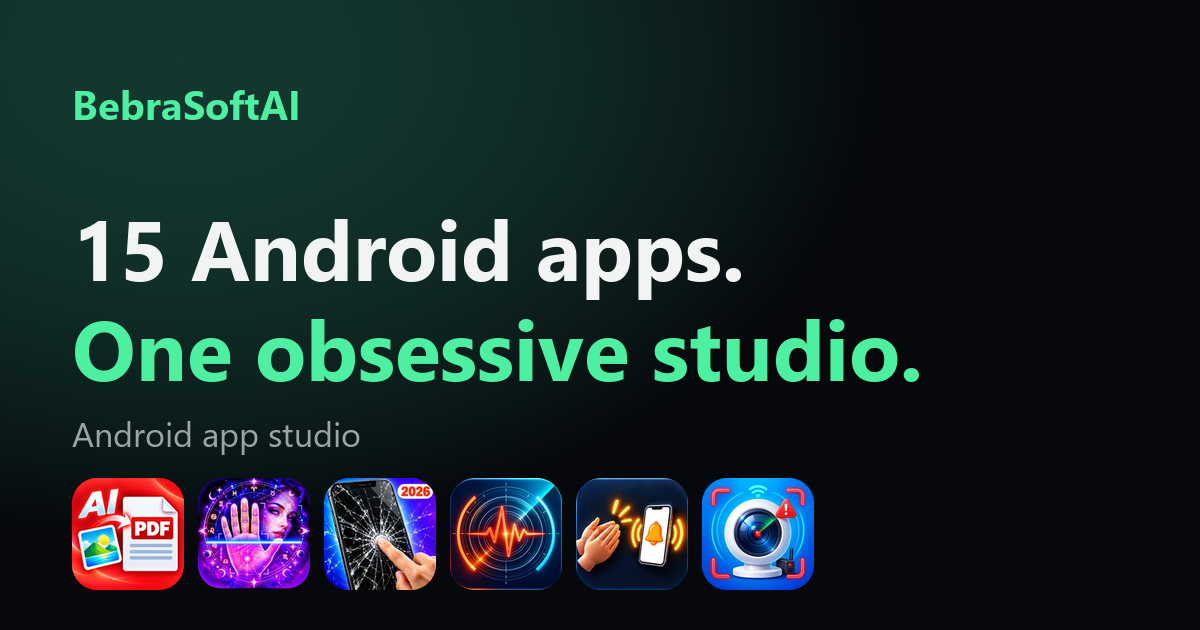
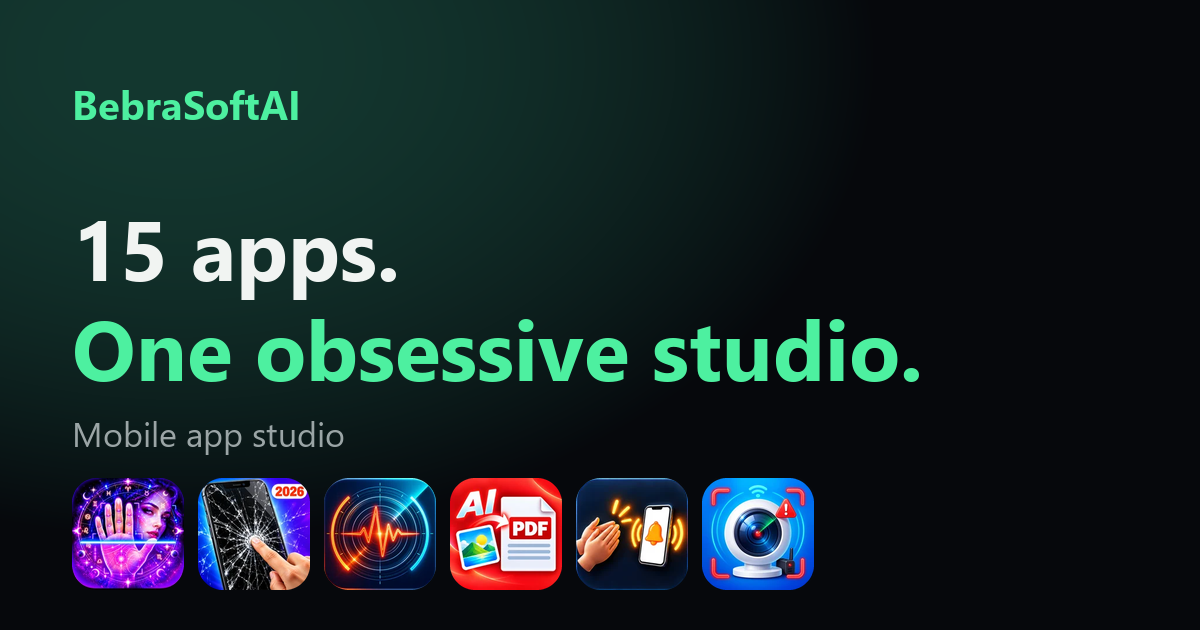
Remove Android from site branding ahead of other stores

Changed region(s): [[0.0617, 0.754, 0.4933, 0.9349], [0.1542, 0.3317, 0.6167, 0.4825], [0.0617, 0.6635, 0.3083, 0.7238]]

diff --git a/index.html b/index.html
@@ -3,13 +3,13 @@
 <head>
 <meta charset="utf-8">
 <meta name="viewport" content="width=device-width, initial-scale=1">
-<title>BebraSoftAI · Android app studio</title>
-<meta name="description" content="BebraSoftAI is an Android app studio behind 15 apps across tools, documents, maps, stories and entertainment. Every app comes with a public privacy policy.">
+<title>BebraSoftAI · Mobile app studio</title>
+<meta name="description" content="BebraSoftAI is a mobile app studio behind 15 apps across tools, documents, maps, stories and entertainment. Every app comes with a public privacy policy.">
 <link rel="canonical" href="https://kravkop.github.io/">
 <meta property="og:type" content="website">
 <meta property="og:site_name" content="BebraSoftAI">
-<meta property="og:title" content="BebraSoftAI · Android app studio">
-<meta property="og:description" content="BebraSoftAI is an Android app studio behind 15 apps across tools, documents, maps, stories and entertainment. Every app comes with a public privacy policy.">
+<meta property="og:title" content="BebraSoftAI · Mobile app studio">
+<meta property="og:description" content="BebraSoftAI is a mobile app studio behind 15 apps across tools, documents, maps, stories and entertainment. Every app comes with a public privacy policy.">
 <meta property="og:url" content="https://kravkop.github.io/">
 <meta property="og:image" content="https://kravkop.github.io/assets/og.png">
 <meta name="twitter:card" content="summary_large_image">
@@ -26,8 +26,8 @@
 <div id="content">
 <section class="hero"><div class="hero-in">
 <div>
-<p class="eyebrow">Android app studio</p>
-<h1><span data-count="apps">15</span> Android apps.<br><span class="grad">One obsessive studio.</span></h1>
+<p class="eyebrow">Mobile app studio</p>
+<h1><span data-count="apps">15</span> apps.<br><span class="grad">One obsessive studio.</span></h1>
 <p class="lede">From document tools and live maps to romantic stories and pure fun, we design, build and ship focused apps that do one job exceptionally well.</p>
 <div class="cta"><a class="btn btn-primary" href="#apps">Explore the apps <svg viewBox="0 0 24 24" fill="none" stroke="currentColor" stroke-width="2.200" stroke-linecap="round" stroke-linejoin="round" aria-hidden="true"><path d="M5 12h14M13 6l6 6-6 6"/></svg></a><a class="btn" href="#contact">Get in touch</a></div>
 </div>
@@ -57,7 +57,7 @@
 <section class="section" id="approach" style="padding-top:0"><div class="wrap">
 <div class="section-head reveal"><div><p class="kicker">How we build</p><h2 class="section-title">Serious about the details.</h2></div></div>
 <div class="bento">
-<article class="tile w3 reveal"><div class="tile-art"><div class="big-num grad">Android</div></div><h3>Android is our whole focus</h3><p>Every app in our portfolio is made for Android. That single focus shapes how each one looks, performs and handles permissions.</p></article>
+<article class="tile w3 reveal"><div class="tile-art"><div class="big-num grad">Mobile</div></div><h3>Mobile is our whole focus</h3><p>Every app in our portfolio is made for your phone. That single focus shapes how each one looks, performs and handles permissions.</p></article>
 <article class="tile w3 reveal"><div class="tile-art"><div class="chips"><span class="chip on">scan</span><span class="chip on">crop</span><span class="chip on">filter</span><span class="chip on">read PDF</span><span class="chip on">clean storage</span><span class="chip">processed locally</span></div></div><h3>On-device where it counts</h3><p>Our document scanner, PDF reader and storage cleaner handle your files on your phone. Each policy states exactly what stays local.</p></article>
 <article class="tile reveal"><div class="tile-art"><div class="lines"><i></i><i></i><i></i><i></i></div></div><h3>Policies you can read</h3><p>Each app has its own public policy, including the third-party services it uses and the choices you have.</p></article>
 <article class="tile reveal"><div class="tile-art"><svg viewBox="0 0 240 118" fill="none" aria-hidden="true"><rect x="1" y="30" width="238" height="58" rx="29" stroke="currentColor" stroke-opacity=".3" stroke-width="2"/><circle cx="208" cy="59" r="22" fill="currentColor"/><path d="m198 59 7 7 13-14" stroke="var(--bg)" stroke-width="4" stroke-linecap="round" stroke-linejoin="round"/></svg></div><h3>Choices stay yours</h3><p>Our policies explain what each app's permissions are used for and how you can change your choices.</p></article>

diff --git a/palm-reader/privacy/ru.html b/palm-reader/privacy/ru.html
@@ -4,7 +4,7 @@
 <meta charset="utf-8">
 <meta name="viewport" content="width=device-width, initial-scale=1">
 <title>Astro AI Horoscope: Palm Tarot - Политика конфиденциальности</title>
-<meta name="description" content="Astro AI Horoscope: Palm Tarot - Политика конфиденциальности. BebraSoftAI, Android app studio.">
+<meta name="description" content="Astro AI Horoscope: Palm Tarot - Политика конфиденциальности. BebraSoftAI, mobile app studio.">
 <meta name="theme-color" content="#06080c">
 <link rel="icon" href="../../favicon.svg" type="image/svg+xml">
 <link rel="stylesheet" href="../../style.css">

diff --git a/find-my-phone/privacy/ru.html b/find-my-phone/privacy/ru.html
@@ -4,7 +4,7 @@
 <meta charset="utf-8">
 <meta name="viewport" content="width=device-width, initial-scale=1">
 <title>Find My Phone Anti Theft Alarm: Политика конфиденциальности</title>
-<meta name="description" content="Find My Phone Anti Theft Alarm: Политика конфиденциальности. BebraSoftAI, Android app studio.">
+<meta name="description" content="Find My Phone Anti Theft Alarm: Политика конфиденциальности. BebraSoftAI, mobile app studio.">
 <meta name="theme-color" content="#06080c">
 <link rel="icon" href="../../favicon.svg" type="image/svg+xml">
 <link rel="stylesheet" href="../../style.css">

diff --git a/romantic-novels/privacy/ru.html b/romantic-novels/privacy/ru.html
@@ -4,7 +4,7 @@
 <meta charset="utf-8">
 <meta name="viewport" content="width=device-width, initial-scale=1">
 <title>Romantic Novels: политика конфиденциальности</title>
-<meta name="description" content="Romantic Novels: политика конфиденциальности. BebraSoftAI, Android app studio.">
+<meta name="description" content="Romantic Novels: политика конфиденциальности. BebraSoftAI, mobile app studio.">
 <meta name="theme-color" content="#06080c">
 <link rel="icon" href="../../favicon.svg" type="image/svg+xml">
 <link rel="stylesheet" href="../../style.css">

diff --git a/romantic-novels/terms/ru.html b/romantic-novels/terms/ru.html
@@ -4,7 +4,7 @@
 <meta charset="utf-8">
 <meta name="viewport" content="width=device-width, initial-scale=1">
 <title>Romantic Novels: условия использования</title>
-<meta name="description" content="Romantic Novels: условия использования. BebraSoftAI, Android app studio.">
+<meta name="description" content="Romantic Novels: условия использования. BebraSoftAI, mobile app studio.">
 <meta name="theme-color" content="#06080c">
 <link rel="icon" href="../../favicon.svg" type="image/svg+xml">
 <link rel="stylesheet" href="../../style.css">

diff --git a/cat-translator/privacy/index.html b/cat-translator/privacy/index.html
@@ -4,7 +4,7 @@
 <meta charset="utf-8">
 <meta name="viewport" content="width=device-width, initial-scale=1">
 <title>Privacy Policy — AI Cat Translator: Talk & Meow</title>
-<meta name="description" content="Privacy Policy — AI Cat Translator: Talk &amp; Meow. BebraSoftAI, Android app studio.">
+<meta name="description" content="Privacy Policy — AI Cat Translator: Talk &amp; Meow. BebraSoftAI, mobile app studio.">
 <meta name="theme-color" content="#06080c">
 <link rel="icon" href="../../favicon.svg" type="image/svg+xml">
 <link rel="stylesheet" href="../../style.css">

diff --git a/dog-translator/privacy/index.html b/dog-translator/privacy/index.html
@@ -4,7 +4,7 @@
 <meta charset="utf-8">
 <meta name="viewport" content="width=device-width, initial-scale=1">
 <title>Privacy Policy — AI Dog Translator: Talk & Bark</title>
-<meta name="description" content="Privacy Policy — AI Dog Translator: Talk &amp; Bark. BebraSoftAI, Android app studio.">
+<meta name="description" content="Privacy Policy — AI Dog Translator: Talk &amp; Bark. BebraSoftAI, mobile app studio.">
 <meta name="theme-color" content="#06080c">
 <link rel="icon" href="../../favicon.svg" type="image/svg+xml">
 <link rel="stylesheet" href="../../style.css">

diff --git a/cat-translator/privacy-policy.html b/cat-translator/privacy-policy.html
@@ -4,7 +4,7 @@
 <meta charset="utf-8">
 <meta name="viewport" content="width=device-width, initial-scale=1">
 <title>Privacy Policy — AI Cat Translator: Talk & Meow</title>
-<meta name="description" content="Privacy Policy — AI Cat Translator: Talk &amp; Meow. BebraSoftAI, Android app studio.">
+<meta name="description" content="Privacy Policy — AI Cat Translator: Talk &amp; Meow. BebraSoftAI, mobile app studio.">
 <meta name="theme-color" content="#06080c">
 <link rel="icon" href="../favicon.svg" type="image/svg+xml">
 <link rel="stylesheet" href="../style.css">

diff --git a/dog-translator/privacy-policy.html b/dog-translator/privacy-policy.html
@@ -4,7 +4,7 @@
 <meta charset="utf-8">
 <meta name="viewport" content="width=device-width, initial-scale=1">
 <title>Privacy Policy — AI Dog Translator: Talk & Bark</title>
-<meta name="description" content="Privacy Policy — AI Dog Translator: Talk &amp; Bark. BebraSoftAI, Android app studio.">
+<meta name="description" content="Privacy Policy — AI Dog Translator: Talk &amp; Bark. BebraSoftAI, mobile app studio.">
 <meta name="theme-color" content="#06080c">
 <link rel="icon" href="../favicon.svg" type="image/svg+xml">
 <link rel="stylesheet" href="../style.css">

diff --git a/pdf-reader/privacy/index.html b/pdf-reader/privacy/index.html
@@ -4,7 +4,7 @@
 <meta charset="utf-8">
 <meta name="viewport" content="width=device-width, initial-scale=1">
 <title>Privacy Policy — Document PDF Reader & Viewer</title>
-<meta name="description" content="Privacy Policy — Document PDF Reader &amp; Viewer. BebraSoftAI, Android app studio.">
+<meta name="description" content="Privacy Policy — Document PDF Reader &amp; Viewer. BebraSoftAI, mobile app studio.">
 <meta name="theme-color" content="#06080c">
 <link rel="icon" href="../../favicon.svg" type="image/svg+xml">
 <link rel="stylesheet" href="../../style.css">

diff --git a/flash-alerts/privacy/index.html b/flash-alerts/privacy/index.html
@@ -4,7 +4,7 @@
 <meta charset="utf-8">
 <meta name="viewport" content="width=device-width, initial-scale=1">
 <title>Privacy Policy — LED Flash Alerts Call Messages</title>
-<meta name="description" content="Privacy Policy — LED Flash Alerts Call Messages. BebraSoftAI, Android app studio.">
+<meta name="description" content="Privacy Policy — LED Flash Alerts Call Messages. BebraSoftAI, mobile app studio.">
 <meta name="theme-color" content="#06080c">
 <link rel="icon" href="../../favicon.svg" type="image/svg+xml">
 <link rel="stylesheet" href="../../style.css">

diff --git a/hidden-camera-detector/privacy/index.html b/hidden-camera-detector/privacy/index.html
@@ -4,7 +4,7 @@
 <meta charset="utf-8">
 <meta name="viewport" content="width=device-width, initial-scale=1">
 <title>Privacy Policy — Hidden Spy Camera Detector App</title>
-<meta name="description" content="Privacy Policy — Hidden Spy Camera Detector App. BebraSoftAI, Android app studio.">
+<meta name="description" content="Privacy Policy — Hidden Spy Camera Detector App. BebraSoftAI, mobile app studio.">
 <meta name="theme-color" content="#06080c">
 <link rel="icon" href="../../favicon.svg" type="image/svg+xml">
 <link rel="stylesheet" href="../../style.css">
